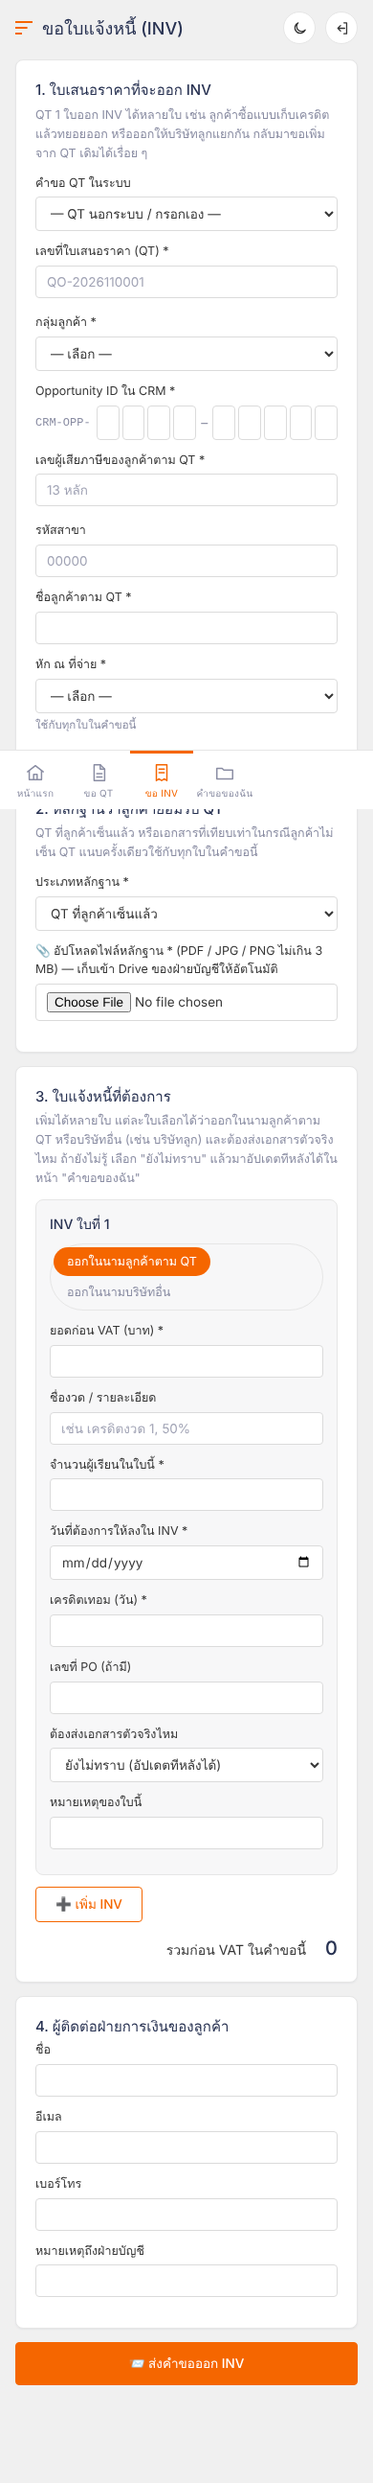
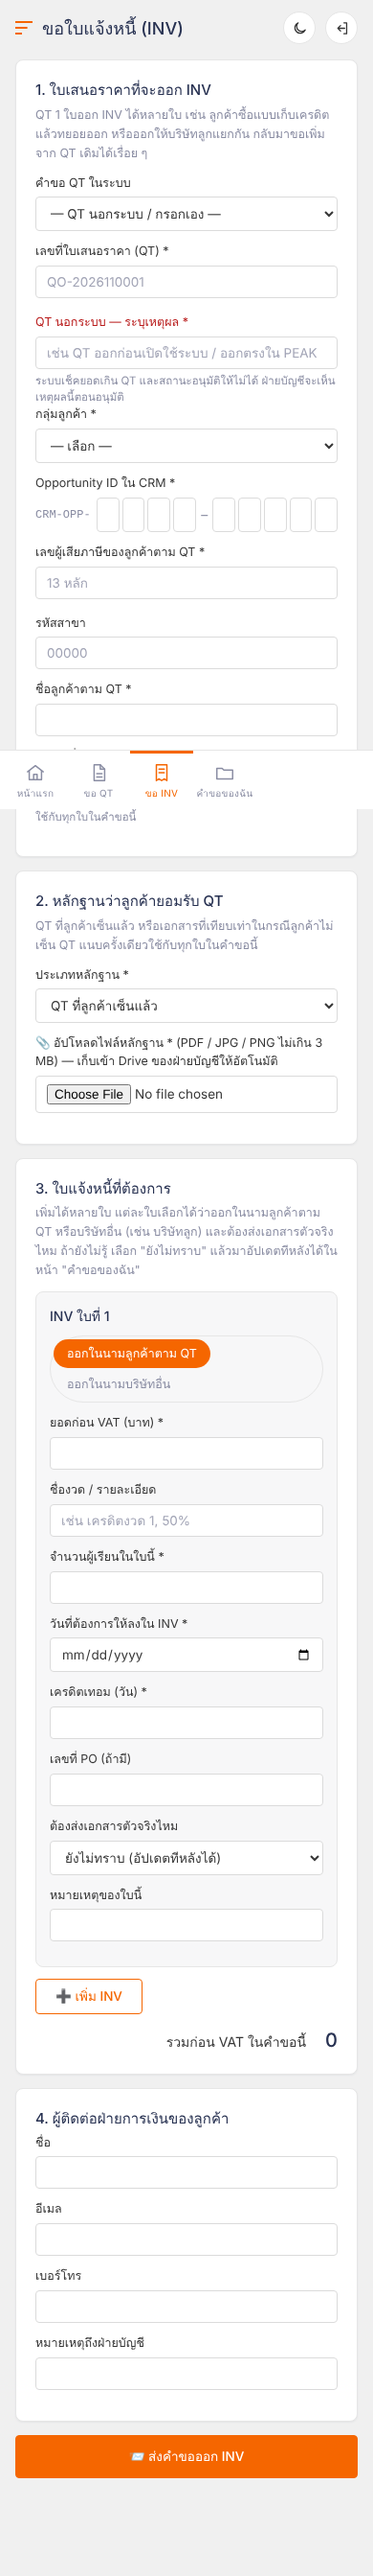
Off-system QT needs a reason; stale-page and concurrent accounting actions are caught; 8h sessions; duplicate Users rows ignored
Claude-Session: https://claude.ai/code/session_01DrrJVyi7K89QdR1o7oVnAa

diff --git a/request.html b/request.html
@@ -97,6 +97,7 @@
       <div class="fg"><label>คำขอ QT ในระบบ</label><select id="i-req" onchange="onPickQT()"><option value="">— QT นอกระบบ / กรอกเอง —</option></select></div>
       <div class="fg"><label>เลขที่ใบเสนอราคา (QT) *</label><input id="i-qt" type="text" maxlength="40" placeholder="QO-2026110001"><div class="sub" id="i-qt-hint"></div></div>
     </div>
+    <div class="fg" id="i-off-wrap" style="margin-top:6px"><label style="color:var(--bad-ink)">QT นอกระบบ — ระบุเหตุผล *</label><input id="i-off" type="text" maxlength="300" placeholder="เช่น QT ออกก่อนเปิดใช้ระบบ / ออกตรงใน PEAK"><div class="sub">ระบบเช็คยอดเกิน QT และสถานะอนุมัติให้ไม่ได้ ฝ่ายบัญชีจะเห็นเหตุผลนี้ตอนอนุมัติ</div></div>
     <div id="i-balance"></div>
     <div class="row c4">
       <div class="fg"><label>กลุ่มลูกค้า *</label><select id="i-seg" onchange="onInvSeg()"><option value="">— เลือก —</option><option>B2B</option><option>B2C</option><option>MaoMao</option><option>B2E</option><option>B2S</option><option>Others</option></select></div>
@@ -686,6 +687,7 @@ function onPickQT() {
   // Linked QT number comes from the Revenue Hub (accounting / PEAK); only external QTs are typed.
   $('i-qt').readOnly = !!(q && q.peakQtNo);
   $('i-seg').disabled = !!(q && q.segment); onInvSeg();
+  $('i-off-wrap').hidden = !!$('i-req').value;
   $('i-qt-hint').textContent = !q ? '' : q.peakQtNo ? '✓ ดึงจาก Revenue Hub' : 'ฝ่ายบัญชียังไม่ได้ใส่เลข QT ของคำขอนี้ ใส่เลขที่ได้รับเองได้';
   renderInvs();
 }
@@ -701,7 +703,7 @@ async function submitINV() {
     taxId: v('i-tax'), branch: v('i-branch'),
     evidenceType: v('i-evtype'), evidenceOther: v('i-evother'),
     financeContact: v('i-fin-name'), financeEmail: v('i-fin-email'), financePhone: v('i-fin-phone'), note: v('i-note'),
-    overReason: $('i-over-wrap').hidden ? '' : v('i-over'), invoices: INVS,
+    overReason: $('i-over-wrap').hidden ? '' : v('i-over'), offReason: $('i-off-wrap').hidden ? '' : v('i-off'), invoices: INVS,
   };
   if (!body.qtNo) return msg('i-msg', 'err', 'ใส่เลขที่ใบเสนอราคา (QT)');
   if (!body.company) return msg('i-msg', 'err', 'ใส่ชื่อลูกค้าตาม QT');
@@ -732,6 +734,7 @@ async function submitINV() {
     if (!again) return msg('i-msg', 'info', 'ยังไม่ได้ส่ง ดูคำขอเดิมได้ที่ "คำขอของฉัน"');
     body.confirmDuplicate = true;
   }
+  if (!$('i-off-wrap').hidden && !body.offReason) return msg('i-msg', 'err', 'เลือก QT จากระบบ หรือใส่เหตุผลที่ใช้ QT นอกระบบ');
   if (!$('i-over-wrap').hidden && !body.overReason) return msg('i-msg', 'err', 'ยอดรวมเกิน QT ใส่เหตุผลก่อนส่ง');
   if (f.size > 3 * 1024 * 1024) return msg('i-msg', 'err', 'ไฟล์ใหญ่เกิน 3 MB ลองย่อหรือแปลงเป็น PDF ก่อน');
   const sum = INVS.reduce((s, x) => s + toNum(x.amountPreVat), 0);
@@ -749,7 +752,7 @@ async function submitINV() {
     if (!d) { msg('i-msg', 'info', 'ยังไม่ได้ส่ง ดูคำขอเดิมได้ที่ "คำขอของฉัน"'); return; }
     INV_DIRTY = false;
     $('i-msg').innerHTML = `<div class="done-card"><b>✓ ส่งคำขอ ${esc(d.batchId)} (${d.ivRequestIds.length} ใบ) แล้ว</b><div style="margin:6px 0 10px">${d.remaining !== null && d.remaining !== undefined ? `QT คงเหลือ ${fmt(d.remaining)} · ` : ''}${esc(d.message)}</div><button class="btn btn-o btn-sm" onclick="go('mine');setMine('inv',document.querySelectorAll('#mine-seg button')[1])">ดูสถานะในคำขอของฉัน</button></div>`;
-    ['i-req', 'i-qt', 'i-seg', 'i-wht', 'i-opp-y', 'i-opp-n', 'i-company', 'i-tax', 'i-branch', 'i-evother', 'i-fin-name', 'i-fin-email', 'i-fin-phone', 'i-note', 'i-over'].forEach((id) => { $(id).value = ''; }); paintOpp('i');
+    ['i-req', 'i-qt', 'i-seg', 'i-wht', 'i-opp-y', 'i-opp-n', 'i-company', 'i-tax', 'i-branch', 'i-evother', 'i-fin-name', 'i-fin-email', 'i-fin-phone', 'i-note', 'i-over', 'i-off'].forEach((id) => { $(id).value = ''; }); paintOpp('i');
     $('i-file').value = ''; $('i-qt').readOnly = false; $('i-seg').disabled = false; onInvSeg(); $('i-qt-hint').textContent = ''; INVS = [blankInv()]; renderInvs(); taxHint('i');
     loadAll();
   } catch (e) { msg('i-msg', 'err', e.message); }
@@ -883,7 +886,7 @@ function renderPending() {
         ${F('หลักฐาน', ev)}
         ${F('ตัวจริง', st(ORIG_ST, v.originalStatus))}
       </div>
-      ${v.note ? `<div class="pc-note">💬 Sales: ${esc(v.note)}</div>` : ''}${v.overReason ? `<div class="pc-note warn">เกินยอด QT: ${esc(v.overReason)}</div>` : ''}
+      ${v.note ? `<div class="pc-note">💬 Sales: ${esc(v.note)}</div>` : ''}${v.overReason ? `<div class="pc-note warn">${/^QT นอกระบบ/.test(v.overReason) ? '' : 'เกินยอด QT: '}${esc(v.overReason)}</div>` : ''}
       </div>
       <div class="pc-act">
         <input id="ivn-${esc(v.ivRequestId)}" type="text" maxlength="40" placeholder="เลข INV เช่น IV-20261100014" style="width:200px">
@@ -897,6 +900,7 @@ function renderPending() {
 
 // PEAK document link (the public doc.peakaccount.com link PEAK returns), opens / downloads the document.
 // QT link opens only once accounting approved the QT in PEAK (a Draft isn't ready for the customer).
+const seenOf = (x) => (x && x.status ? `${x.status}|${x.updatedAt || ''}` : '');
 const QT_LIVE = ['qt_approved', 'accepted', 'iv_requested', 'iv_issued'];
 function qtLink(q) {
   if (!q.peakQtNo) return '';
@@ -923,12 +927,12 @@ async function qtAction(id, action) {
 async function qtActionDo(id, action) {
   const note = ($('qn-' + id) || {}).value || '';
   if (action === 'reject' && !note.trim()) { $('qm-' + id).innerHTML = '<span class="err-line">ใส่เหตุผลก่อน</span>'; return; }
-  try { await api('/api/requests', { method: 'PATCH', body: JSON.stringify({ requestId: id, action, note }) }); await loadAll(); }
+  try { await api('/api/requests', { method: 'PATCH', body: JSON.stringify({ requestId: id, action, note, seen: seenOf(REQS.find((x) => x.requestId === id)) }) }); await loadAll(); }
   catch (e) { $('qm-' + id).innerHTML = `<span class="err-line">${esc(e.message)}</span>`; }
 }
 async function ivAction(id, action) {
-  const body = { ivRequestId: id, action };
   const v = IVS.find((x) => x.ivRequestId === id) || {};
+  const body = { ivRequestId: id, action, seen: seenOf(v) };
   if (action === 'issued') { body.peakIvNo = $('ivn-' + id).value.trim(); body.peakDocLink = $('ivl-' + id).value.trim(); if (!body.peakIvNo || !body.peakDocLink) { $('ivm-' + id).innerHTML = '<span class="err-line">ใส่เลข INV และลิงก์เอกสาร INV ใน PEAK</span>'; return; } }
   if (action === 'reject') { body.note = $('ivr-' + id).value.trim(); if (!body.note) { $('ivm-' + id).innerHTML = '<span class="err-line">ใส่เหตุผลก่อน</span>'; return; } }
   const ok = await ask(action === 'issued'
@@ -961,7 +965,7 @@ async function markSent(id) {
   const v = IVS.find((x) => x.ivRequestId === id) || {};
   const trackingNo = $('trk-' + id).value.trim();
   if (!(await ask({ title: 'บันทึกว่าส่งเอกสารตัวจริงแล้ว?', ok: '✅ ส่งแล้ว', html: `<p><b>${esc(v.company)}</b>${v.peakIvNo ? ' · ' + esc(v.peakIvNo) : ''}<br>ส่งถึง ${esc(v.originalRecipient || '')} ${esc(v.originalAddress || '')}</p><p>เลขพัสดุ: <b>${esc(trackingNo || '— (ไม่ระบุ)')}</b></p>` }))) return;
-  try { await withLoading('กำลังบันทึก…', async () => { await api('/api/invoice-requests', { method: 'PATCH', body: JSON.stringify({ ivRequestId: id, action: 'original_sent', trackingNo }) }); await loadAll(); }); }
+  try { await withLoading('กำลังบันทึก…', async () => { await api('/api/invoice-requests', { method: 'PATCH', body: JSON.stringify({ ivRequestId: id, action: 'original_sent', trackingNo, seen: seenOf(v) }) }); await loadAll(); }); }
   catch (e) { const el = $('pend-orig'); el.insertAdjacentHTML('afterbegin', `<div class="msg err">${esc(e.message)}</div>`); }
 }
 

diff --git a/api/invoice-requests.js b/api/invoice-requests.js
@@ -60,6 +60,7 @@ function validate(b) {
     financePhone: text(b.financePhone, 40),
     note: text(b.note, 1000),
     overReason: text(b.overReason, 300),
+    offReason: text(b.offReason, 300),
   };
   if (!r.qtNo) throw bad('ใส่เลขที่ใบเสนอราคา (QT) ที่ต้องการออก INV');
   if (!['0', '1', '2', '3', '5'].includes(r.whtRate)) throw bad('เลือกหัก ณ ที่จ่าย (ไม่หัก / 1% / 2% / 3% / 5%)');
@@ -137,6 +138,8 @@ async function create(req, res, user) {
     if (!r.opportunityId) r.opportunityId = linked.opportunityId || '';
     r.segment = linked.segment || r.segment;
   }
+  // A QT typed by hand (not a request in this app): no balance or approval check is possible, so a reason is required.
+  if (!r.requestId && !r.offReason) throw bad('เลือก QT จากระบบ หรือใส่เหตุผลที่ใช้ QT นอกระบบ');
   // CRM Opportunity ID: required for every segment except B2S.
   if (r.segment === 'B2S') r.opportunityId = '';
   else if (!r.opportunityId) throw bad('ใส่ Opportunity ID จาก CRM (CRM-OPP-YYYY-NNNNN) ยกเว้นลูกค้า B2S');
@@ -178,7 +181,7 @@ async function create(req, res, user) {
     batchId, branch: v.branch, billToRelation: v.billTo === 'other' ? v.relation : '',
     originalDoc: v.originalDoc, originalStatus: ORIGINAL[v.originalDoc], originalRecipient: v.originalRecipient,
     originalAddress: v.originalAddress, originalRequestedAt: v.originalDoc === 'yes' ? at : '', originalSentAt: '', trackingNo: '',
-    overReason: over ? r.overReason : '', whtRate: r.whtRate,
+    overReason: over ? r.overReason : (!r.requestId ? `QT นอกระบบ: ${r.offReason}` : ''), whtRate: r.whtRate,
   }));
   await hub.appendRows('InvoiceRequests', rows);
 
@@ -200,6 +203,7 @@ async function create(req, res, user) {
     `ออกในนาม: ${entities.join(', ')}`,
     originals ? `📮 ต้องส่งตัวจริง ${originals} ใบ` : '',
     over ? `⚠ เกินยอด QT: ${r.overReason}` : '',
+    !r.requestId ? `⚠ QT นอกระบบ: ${r.offReason}` : '',
   ].filter(Boolean).join('\n')));
   await Promise.all(after);
 
@@ -219,6 +223,7 @@ async function update(req, res, user) {
   const row = rows.find((x) => x.ivRequestId === id);
   if (!row || (user.role !== 'op' && row.requestedBy !== user.email)) throw bad('ไม่พบคำขอ INV นี้', 404);
   const at = hub.sheetDateTime();
+  if (user.role === 'op') hub.checkSeen(row, text(b.seen, 80));
 
   if (b.action === 'original') {
     const want = b.originalDoc === 'no' ? 'no' : 'yes';
@@ -245,7 +250,7 @@ async function update(req, res, user) {
     if (row.originalStatus === 'sent') throw bad(`บันทึกว่าส่งตัวจริงไปแล้ว${row.trackingNo ? ' (เลขพัสดุ ' + row.trackingNo + ')' : ''} รีเฟรชหน้าเพื่อดูข้อมูลล่าสุด`, 409);
     if (row.originalStatus !== 'requested') throw bad('ลูกค้ายังไม่ได้ขอเอกสารตัวจริงสำหรับ INV นี้', 409);
     const trackingNo = text(b.trackingNo, 60);
-    await hub.updateRow('InvoiceRequests', row._row, { originalStatus: 'sent', originalSentAt: at, trackingNo, updatedAt: at });
+    await hub.writeChecked('InvoiceRequests', 'ivRequestId', row, { originalStatus: 'sent', originalSentAt: at, trackingNo, updatedAt: at });
     await hub.log('catalog', 'original_sent', id, `${user.email}${trackingNo ? ' · ' + trackingNo : ''}`);
     await notify.chat(`✅ ส่งเอกสารตัวจริงแล้ว ${id} · ${row.company}${trackingNo ? ' · เลขพัสดุ ' + trackingNo : ''} (แจ้ง ${row.salesName || row.requestedBy})`);
     return res.status(200).json({ ok: true, originalStatus: 'sent' });
@@ -261,16 +266,16 @@ async function update(req, res, user) {
     }
     if (b.action === 'reject') {
       if (!note) throw bad('ใส่เหตุผลที่ตีกลับ');
-      await hub.updateRow('InvoiceRequests', row._row, { status: 'rejected', accountNote: `${note} — ${user.name || user.email}`, updatedAt: at });
+      await hub.writeChecked('InvoiceRequests', 'ivRequestId', row, { status: 'rejected', accountNote: `${note} — ${user.name || user.email}`, updatedAt: at });
     } else if (b.action === 'reopen') {
-      await hub.updateRow('InvoiceRequests', row._row, { status: 'new', updatedAt: at });
+      await hub.writeChecked('InvoiceRequests', 'ivRequestId', row, { status: 'new', updatedAt: at });
     } else {
       const ivNo = text(b.peakIvNo, 40).toUpperCase();
       if (!/^[A-Z]{1,6}-?\d{6,}$/.test(ivNo)) throw bad('ใส่เลข INV จาก PEAK เช่น IV-20261100014');
       // Accounting issues the INV from the QT in PEAK; approving here needs the link to that INV.
       const link = text(b.peakDocLink, 500);
       if (!/^https:\/\/(doc|secure)\.peakaccount\.com\//.test(link)) throw bad('ใส่ลิงก์เอกสาร INV จาก PEAK (https://doc.peakaccount.com/… หรือ https://secure.peakaccount.com/…)');
-      await hub.updateRow('InvoiceRequests', row._row, { status: 'iv_issued', peakIvNo: ivNo, peakDocLink: link, accountNote: note || row.accountNote, updatedAt: at });
+      await hub.writeChecked('InvoiceRequests', 'ivRequestId', row, { status: 'iv_issued', peakIvNo: ivNo, peakDocLink: link, accountNote: note || row.accountNote, updatedAt: at });
     }
     await hub.log('catalog', `iv_${b.action}`, id, `${user.email}${note ? ' · ' + note : ''}`);
     return res.status(200).json({ ok: true });

diff --git a/lib/hub.js b/lib/hub.js
@@ -238,3 +238,24 @@ async function readSalesPerf() {
   return rows.map((r) => ({ code: String(r[0] || '').trim(), name: String(r[1] || '').trim() })).filter((x) => x.code);
 }
 module.exports.readSalesPerf = readSalesPerf;
+
+// Accounting actions on one row. Sheets has no locks, so two people acting on the same row a moment
+// apart could both pass the status check. `seen` = "status|updatedAt" the page showed: a mismatch means
+// someone changed the row since. After writing, the row is read back; if another write landed on top,
+// the caller is told instead of silently losing.
+function stamp(row) { return `${row.status || ''}|${row.updatedAt || ''}`; }
+function checkSeen(row, seen) {
+  if (seen && String(seen) !== stamp(row)) {
+    throw Object.assign(new Error(`มีคนอัปเดตรายการนี้ไปแล้ว (สถานะตอนนี้: ${row.status}) รีเฟรชหน้าเพื่อดูข้อมูลล่าสุด`), { status: 409 });
+  }
+}
+async function writeChecked(table, key, row, fields) {
+  await updateRow(table, row._row, fields);
+  const now = (await readTable(table)).find((x) => x[key] === row[key]);
+  // Compare only the status fields: dates and numbers can read back formatted differently.
+  const lost = !now || ['status', 'originalStatus', 'peakIvNo'].filter((k) => k in fields).some((k) => String(now[k] ?? '') !== String(fields[k] ?? ''));
+  if (lost) throw Object.assign(new Error(`มีคนทำรายการนี้พร้อมกัน ระบบเก็บของอีกคนไว้ (สถานะตอนนี้: ${now ? now.status : '-'}) รีเฟรชหน้าเพื่อดู`), { status: 409 });
+}
+module.exports.stamp = stamp;
+module.exports.checkSeen = checkSeen;
+module.exports.writeChecked = writeChecked;

diff --git a/api/requests.js b/api/requests.js
@@ -251,11 +251,12 @@ async function update(req, res, user) {
     const done = { approve: 'คำขอนี้อนุมัติไปแล้วหรือไม่ได้รออนุมัติ', reject: 'ตีกลับไม่ได้: คำขอนี้ไม่ได้อยู่ในสถานะที่ตีกลับได้ (อาจสร้าง QT ใน PEAK แล้ว)', reopen: 'คำขอนี้ไม่ได้ติดปัญหาแล้ว', qt_approved: 'QT นี้ไม่ได้อยู่ในสถานะ Draft' };
     throw bad(`${done[b.action]} (สถานะตอนนี้: ${row.status}) รีเฟรชหน้าเพื่อดูข้อมูลล่าสุด`, 409);
   }
+  hub.checkSeen(row, text(b.seen, 80));
   if (b.action === 'qt_approved') fields.qtApprovedAt = at;
   const who = user.name || user.email;
   const auto = { approve: `ฝ่ายบัญชีอนุมัติคำขอแล้ว รอระบบสร้าง QT Draft ใน PEAK — ${who}`, reopen: `ให้ระบบสร้าง QT ใหม่ — ${who}`, qt_approved: `อนุมัติ QT ใน PEAK แล้ว — ${who}` };
   fields.peakNote = note ? `${note} — ${who}` : (auto[b.action] || row.peakNote);
-  await hub.updateRow('Requests', row._row, fields);
+  await hub.writeChecked('Requests', 'requestId', row, fields);
   await hub.log('catalog', `qt_${b.action}`, row.requestId, `${user.email}${note ? ' · ' + note : ''}`);
   res.status(200).json({ ok: true, status });
 }

diff --git a/lib/users.js b/lib/users.js
@@ -21,7 +21,13 @@ const teamVal = (t) => (TEAMS.includes(String(t || '').toLowerCase()) ? String(t
 let cache = null; // { at, rows } per instance, 30 s
 async function rows(fresh) {
   if (!fresh && cache && Date.now() - cache.at < 30e3) return cache.rows;
-  const r = await hub.readTable('Users');
+  // Two sign-ins at the same moment can append the same new user twice; the first row wins.
+  const seen = new Set();
+  const r = (await hub.readTable('Users')).filter((x) => {
+    const e = String(x.email || '').toLowerCase();
+    if (!e || seen.has(e)) return false;
+    seen.add(e); return true;
+  });
   cache = { at: Date.now(), rows: r };
   return r;
 }

diff --git a/lib/session.js b/lib/session.js
@@ -9,7 +9,7 @@ const crypto = require('crypto');
 
 const COOKIE = 'gc_session';
 const STATE_COOKIE = 'gc_oauth_state';
-const TTL_MS = 12 * 60 * 60 * 1000; // 12 hours, same as License Desk
+const TTL_MS = 8 * 60 * 60 * 1000; // 8 hours: one working day
 
 function secret() {
   const s = process.env.AUTH_SECRET;
